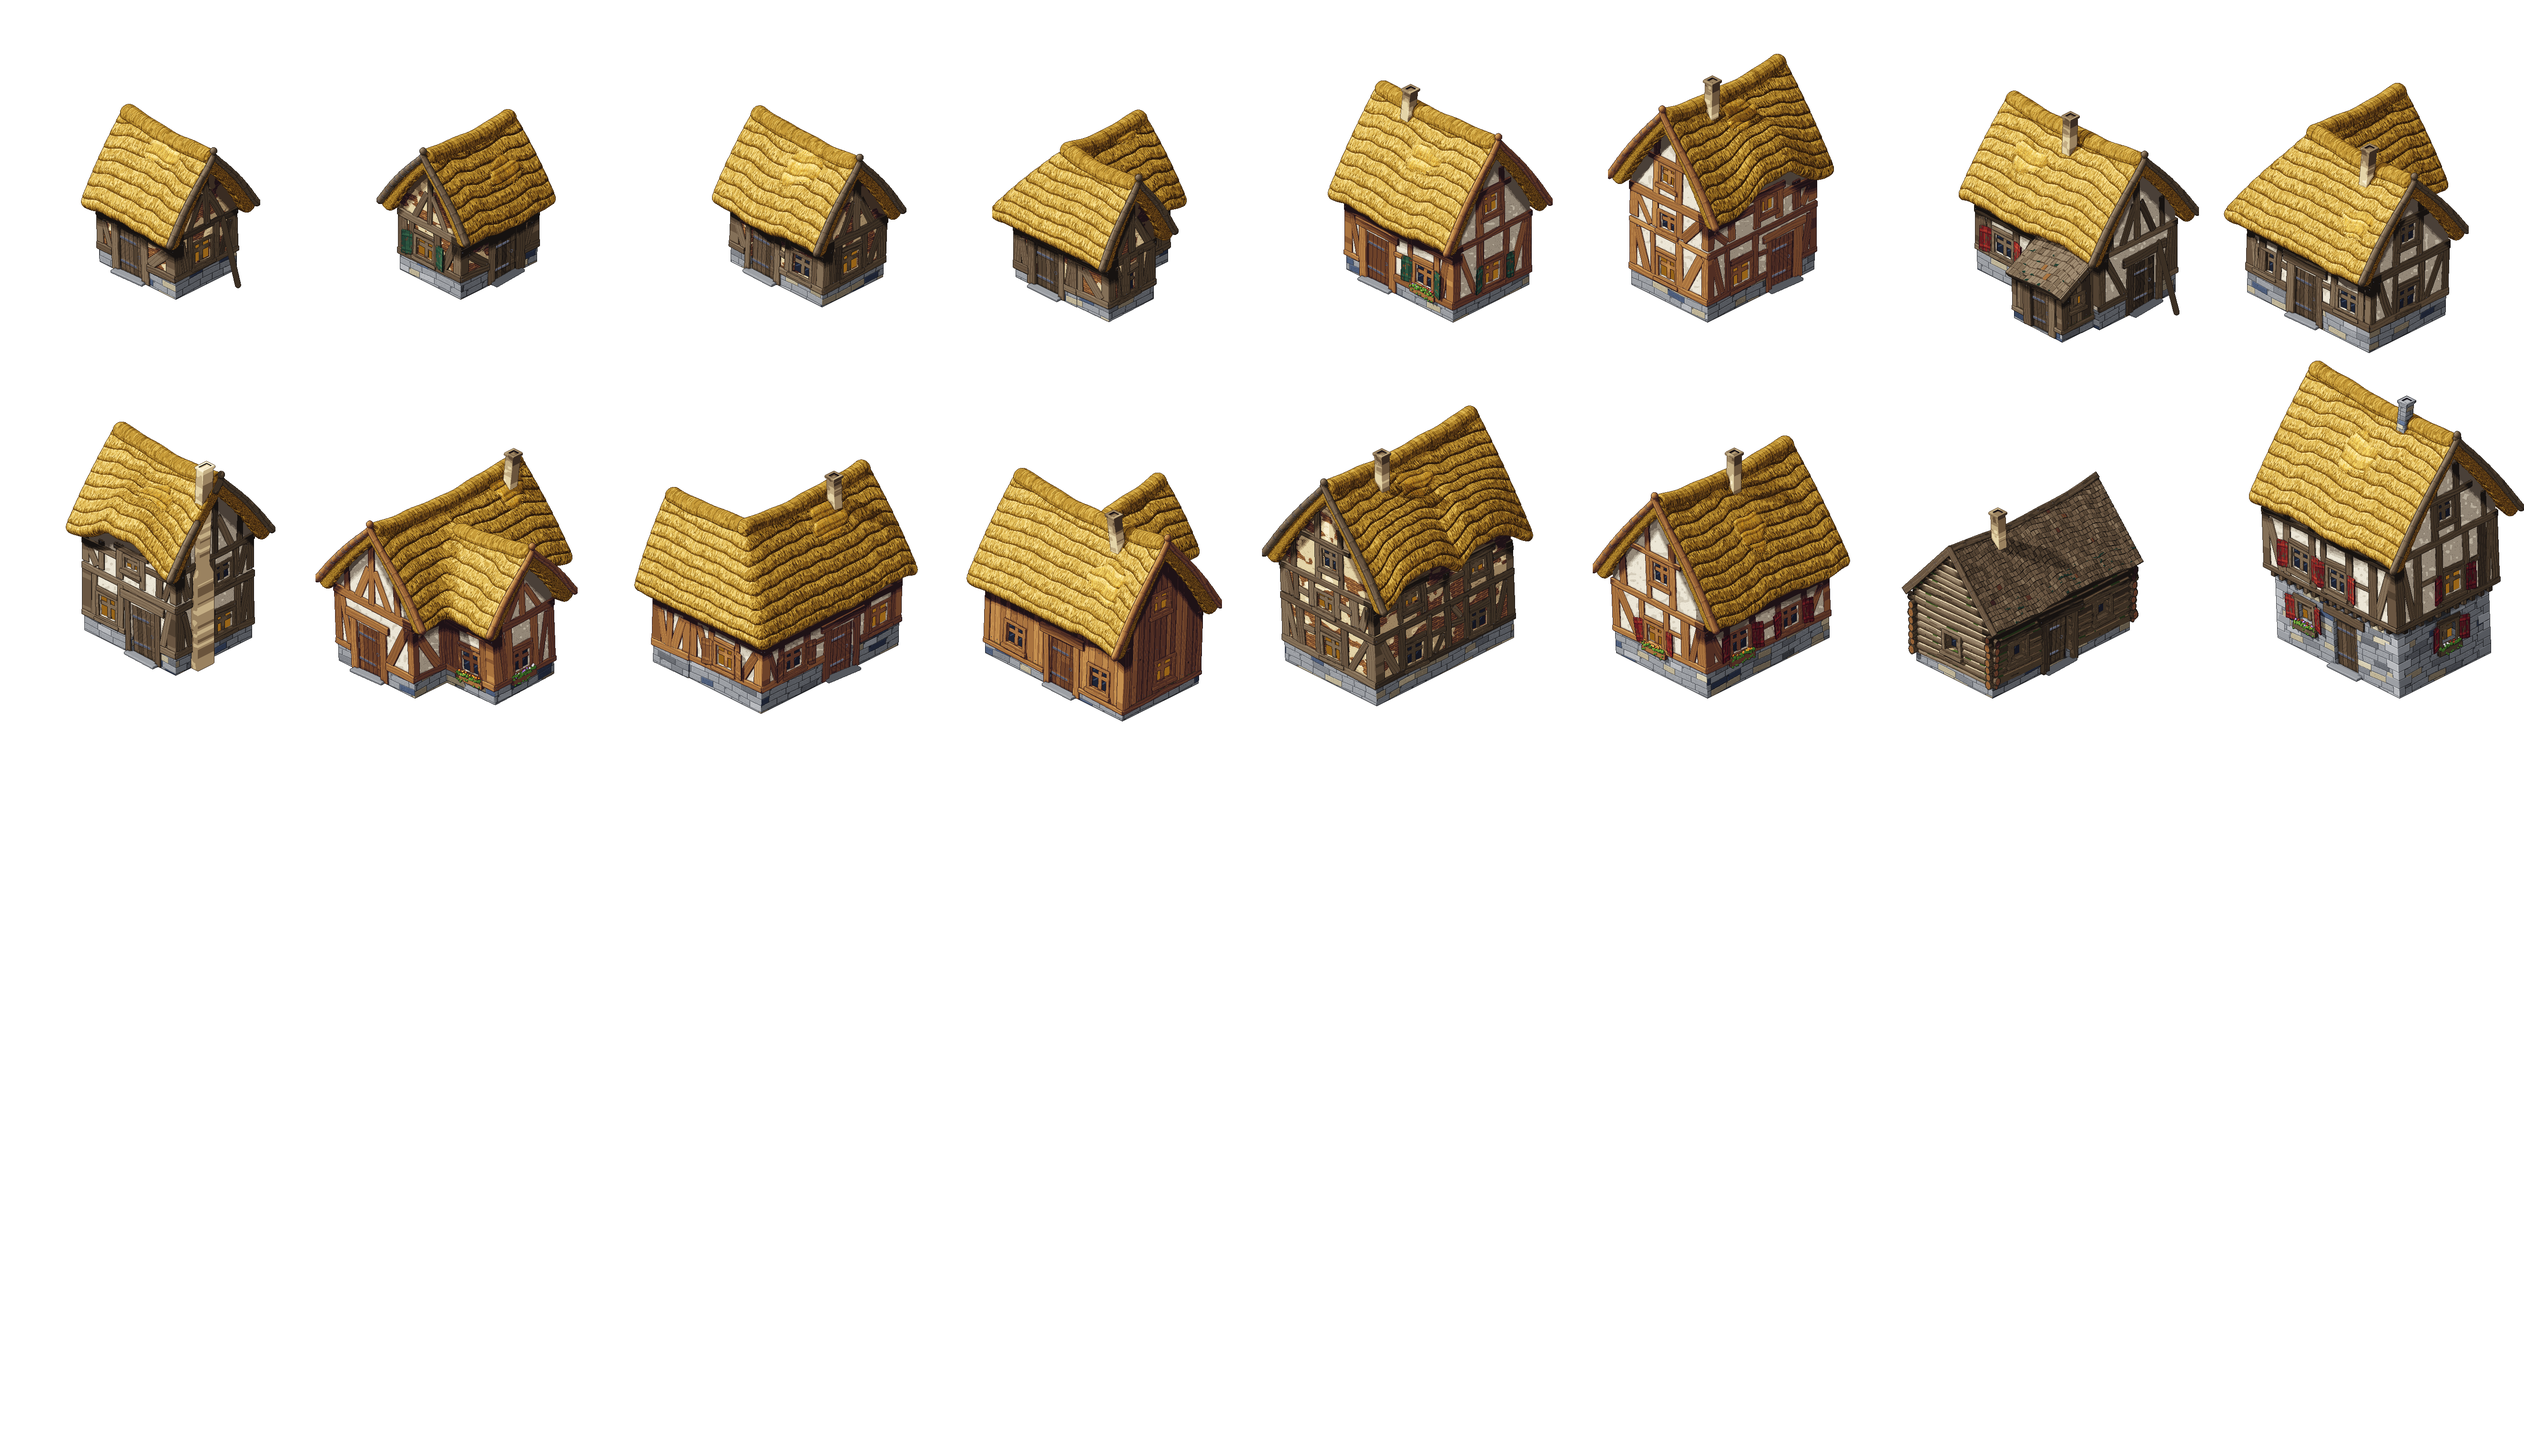
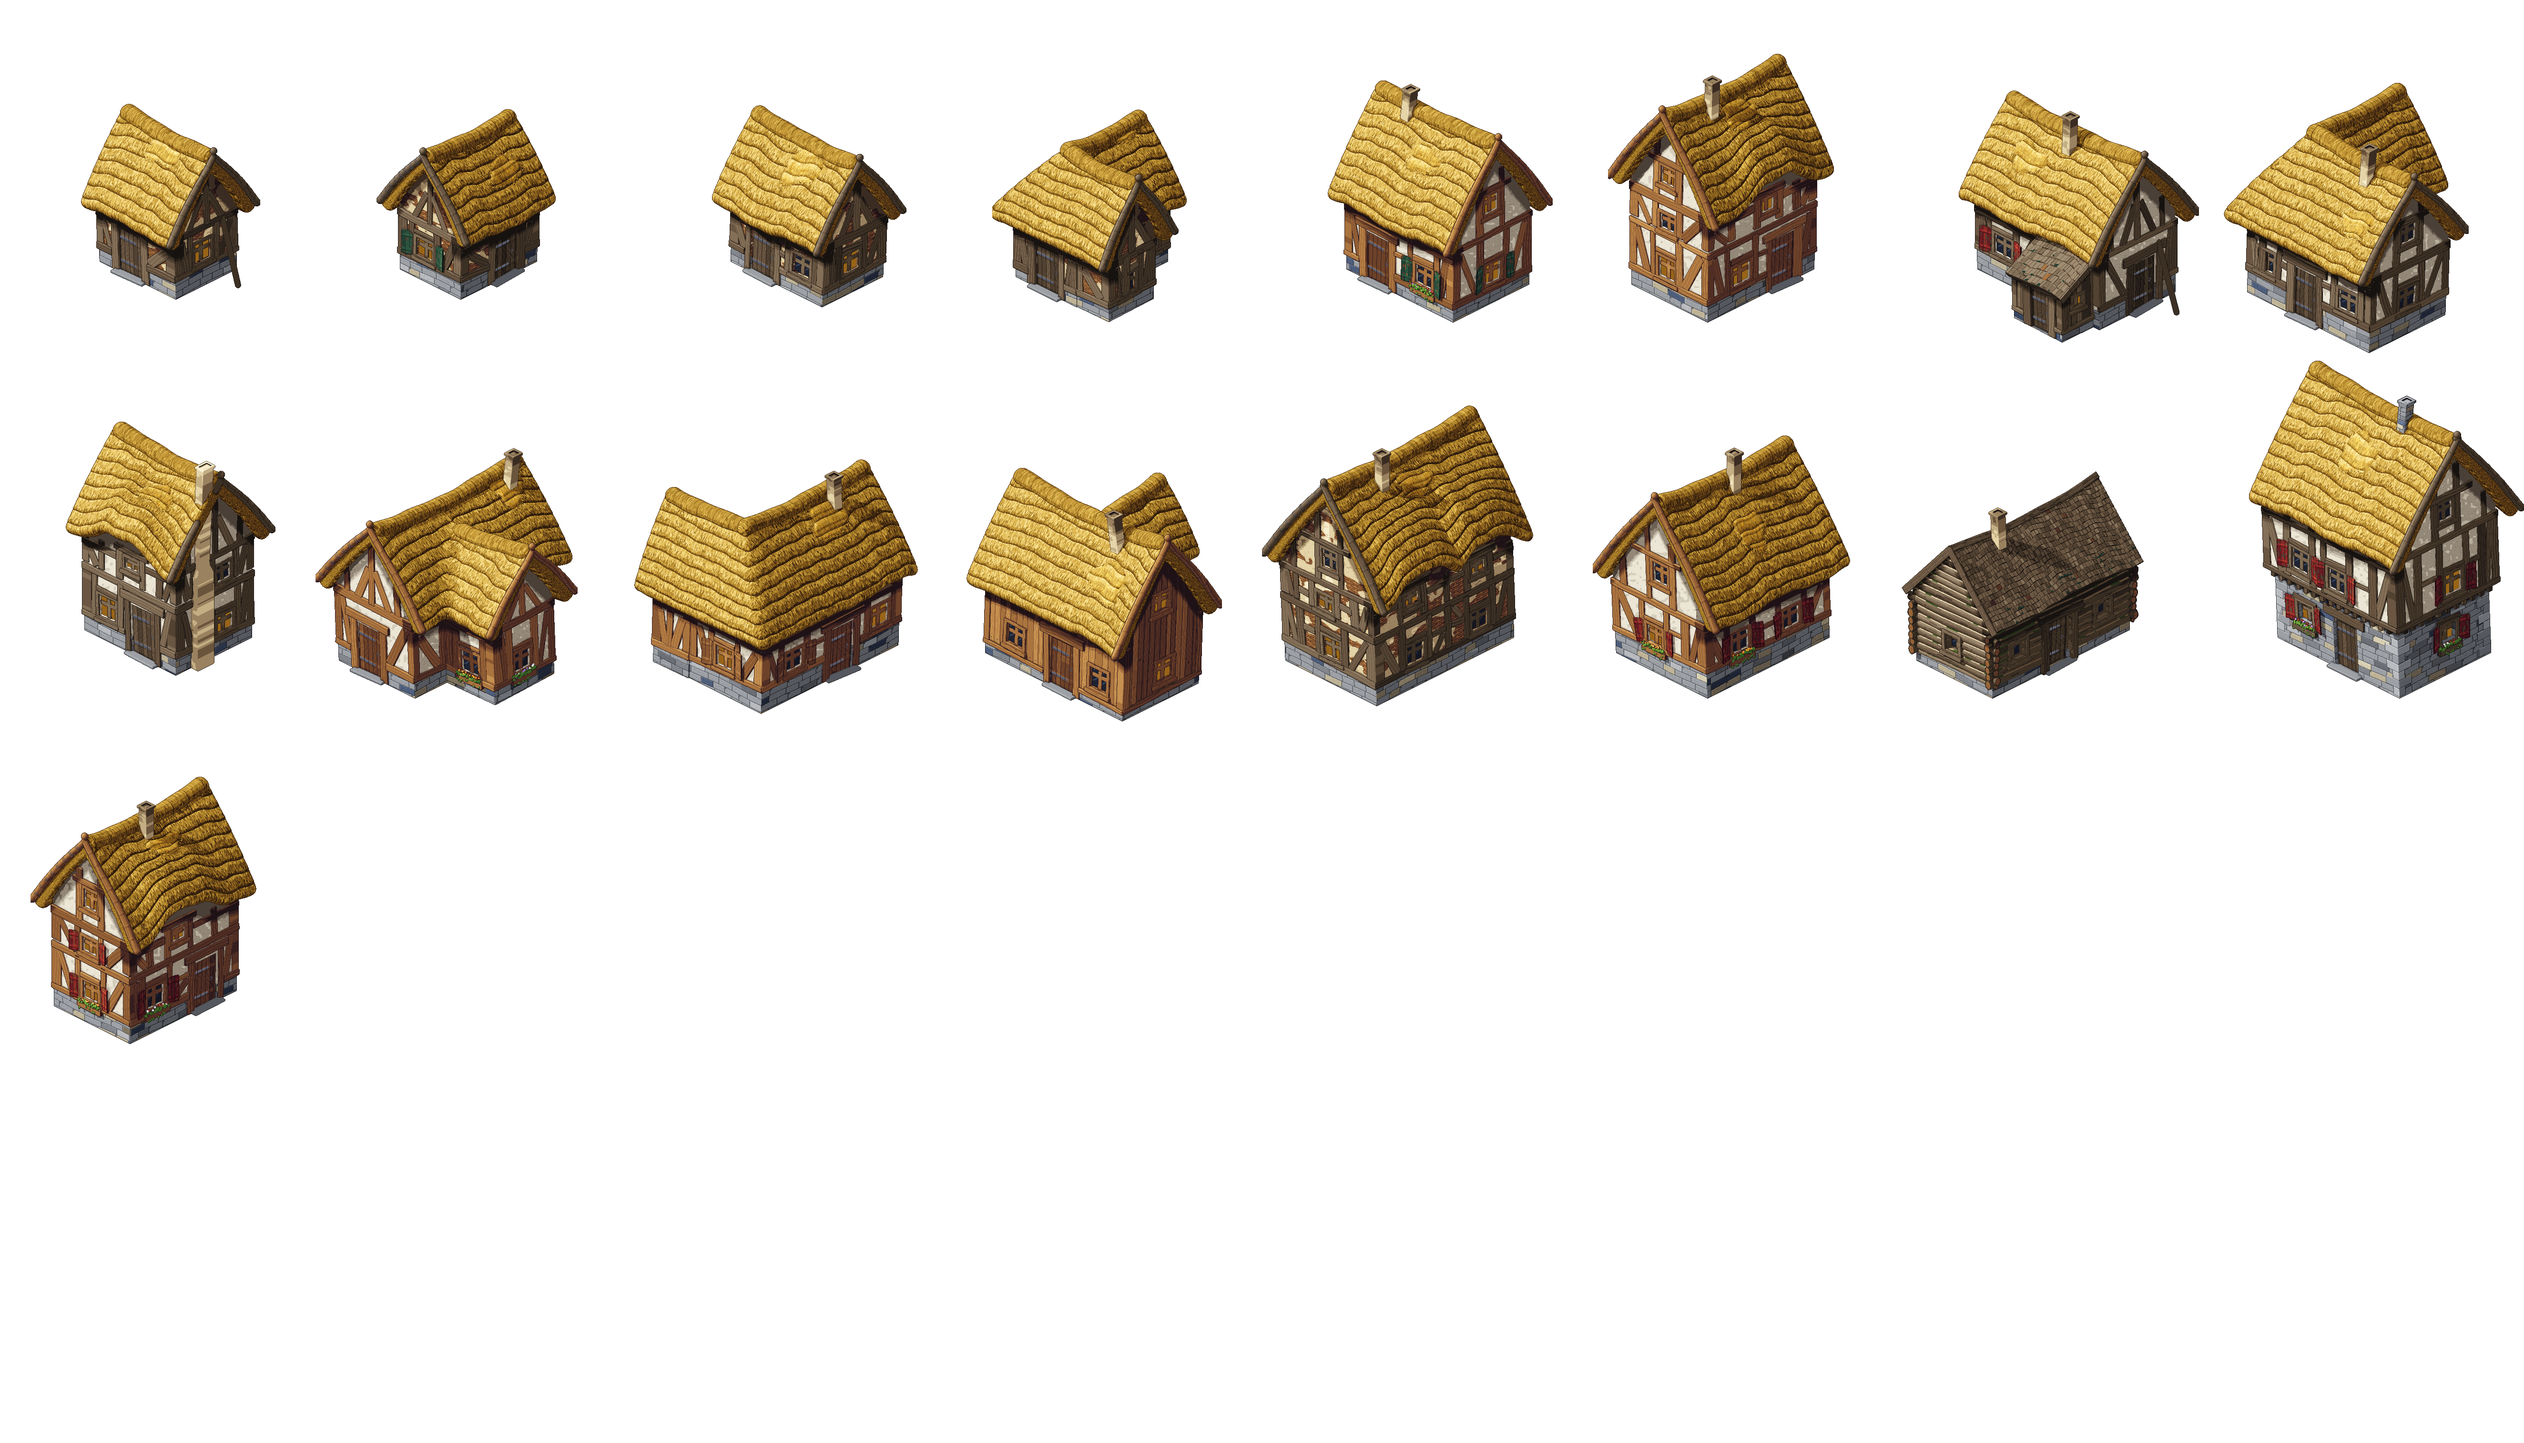
De herberg van het gehucht: vakwerk onder riet, van de huizenbouwer
De herberg komt vanaf het begin in het gehucht (werklijst punt 2, vraag 35).
De oude tekening (tegels/gebouwen.png) is van steen onder pannen: trede 4 à 5
van de ladder die Marcel goedkeurde, en in het gehucht is alleen het huis van
de schout half steen. Dus een eigen herberg van de huizenbouwer, trede 2 zoals
de huizen: vakwerk onder riet, maar hoger, met een zolder en twee dakkapellen,
luiken en bloembakken, en de deur aan de oostkant, naar de weg.

Hij heet herberg1, net als huis1 en boerderij1: onder "herberg" vond het
kaartscript eerst de oude tekening. Niemand bouwt hem, dus geen bouwfases. De
andere huizen op het vel zijn niet veranderd. De toets die zegt welk gebouw
een huis mag zijn, kijkt nu in T.GEBOUWEN in plaats van een vast lijstje.

Claude-Session: https://claude.ai/code/session_01JNbHNpXccJV5j9gKJNCj1u

Changed region(s): [[0.0, 0.5277, 0.1246, 0.745]]

diff --git a/tegels/tegels.js b/tegels/tegels.js
@@ -8997,13 +8997,24 @@
       ]
      },
      {
-      "naam": null,
-      "vast": false,
-      "beslaat": null,
+      "naam": "herberg1",
+      "vast": true,
+      "beslaat": [
+       5,
+       7
+      ],
       "groep": null,
       "staat": null,
-      "deur": null,
-      "doos": null
+      "deur": [
+       5,
+       2
+      ],
+      "doos": [
+       273,
+       382,
+       201,
+       179
+      ]
      },
      {
       "naam": null,

diff --git a/tegels/huizen.tsx b/tegels/huizen.tsx
@@ -135,8 +135,10 @@
  </tile>
  <tile id="16">
   <properties>
-    <property name="naam" value=""/>
-    <property name="vast" type="bool" value="false"/>
+    <property name="naam" value="herberg1"/>
+    <property name="vast" type="bool" value="true"/>
+    <property name="beslaat" value="5x7"/>
+    <property name="deur" value="5,2"/>
   </properties>
  </tile>
  <tile id="17">
